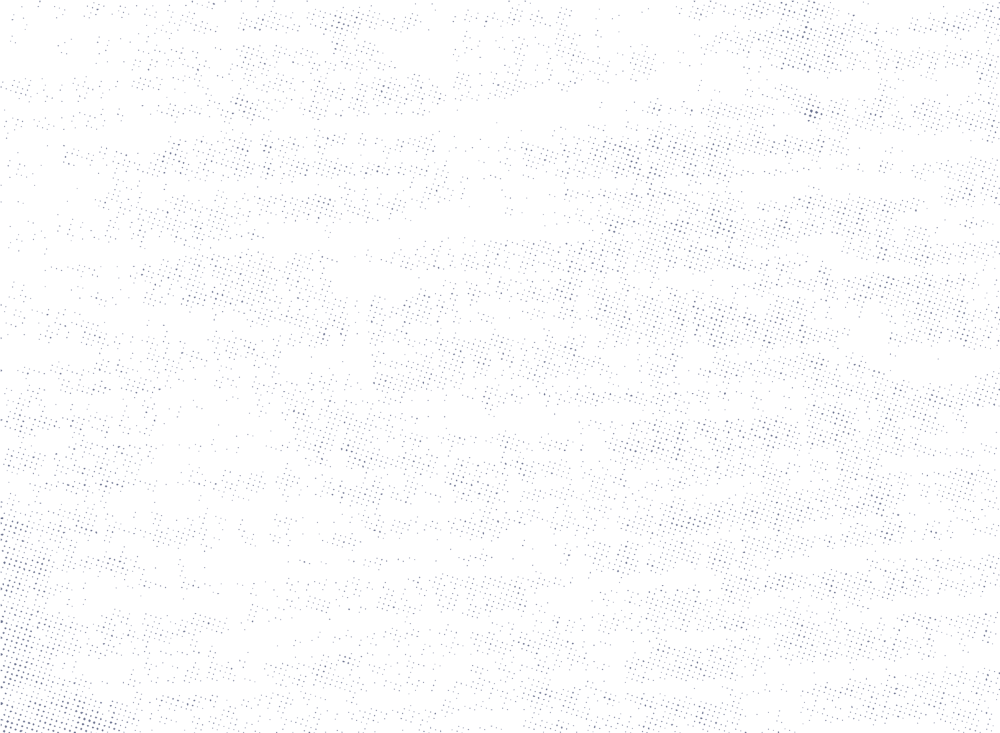
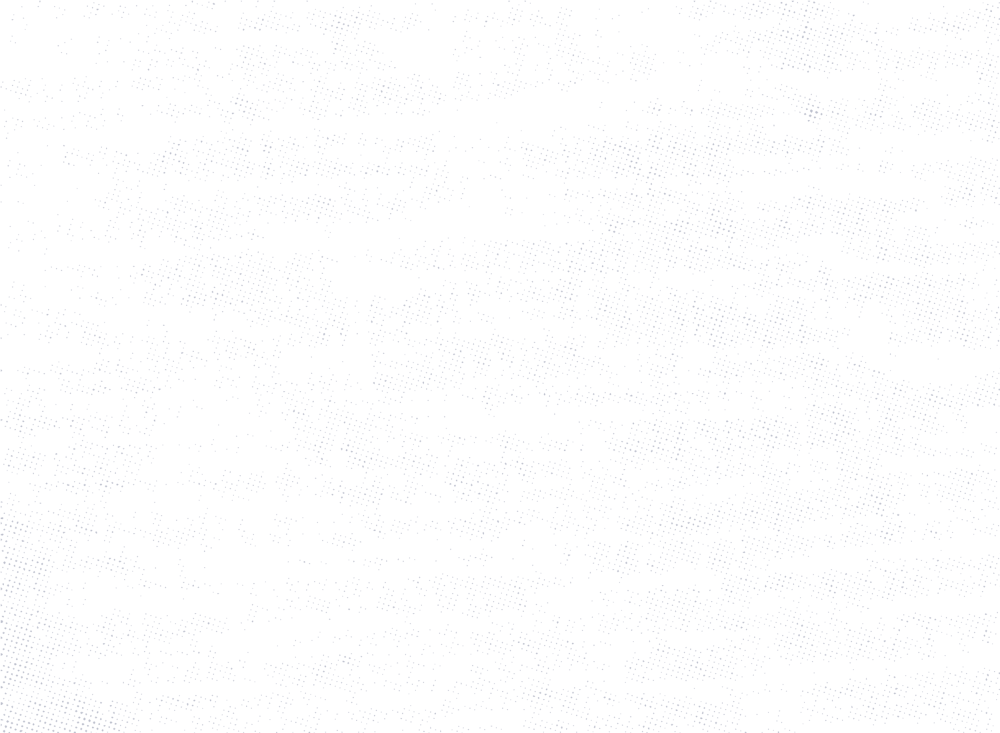
finishing up some last minute details before the Evolytics homework

Changed region(s): [[0.0, 0.9604, 0.124, 1.0], [0.0, 0.9004, 0.031, 0.9304]]

diff --git a/components/Timeline.vue b/components/Timeline.vue
@@ -3,6 +3,10 @@
     <div id="overviewNoticeWrapper">
       <div id="overviewMarquee"></div>
       <div id="overviewNotice">Timeline of elections in your region.</div>
+      <!--<img
+        class="womanBehindCurtain"
+        src="womanVotingBehindCurtainCroppedStock.png"
+      />-->
     </div>
     <div class="dummyInfoThingy elevation-19" v-if="useDummyInfo">
       There are no upcoming elections for your region on record. Please, revisit
@@ -505,6 +509,12 @@ export default {
 </script>
 
 <style >
+.womanBehindCurtain {
+  position: absolute;
+  width: 400px;
+  right: 10px;
+  bottom: -20px;
+}
 .v-timeline:before {
   height: 110%;
 }

diff --git a/components/Resources.vue b/components/Resources.vue
@@ -5,6 +5,7 @@
       <div id="overviewNotice">
         Understand your eligibility and what you need to vote.
       </div>
+      <!--<img class="womanVoting" src="womanVotingCutOutStock.png" />-->
     </div>
     <v-tabs v-model="tab" class="knowledgeTabs" hide-slider centered>
       <v-tab :key="i">{{ i }}</v-tab>
@@ -1849,6 +1850,12 @@ export default {
 </script>
 
 <style>
+.womanVoting {
+  position: absolute;
+  width: 370px;
+  right: 10px;
+  bottom: -60px;
+}
 .headline {
   font-family: 'Roboto', sans-serif;
   font-weight: 500 !important;

diff --git a/components/TopNav.vue b/components/TopNav.vue
@@ -264,7 +264,7 @@ html {
   font-weight: 450;
 }
 #overviewNoticeWrapper {
-  background-color: #f7f7f7;
+  background-color: #fcfcfc;
   background-size: cover;
   background-image: url('../static/07.png');
   font-family: 'Roboto', sans-serif;
@@ -274,6 +274,7 @@ html {
   padding-bottom: 1rem;
   position: relative;
   margin-bottom: 0em;
+  overflow: hidden;
 }
 #overviewMarquee {
   font-size: 200%;
